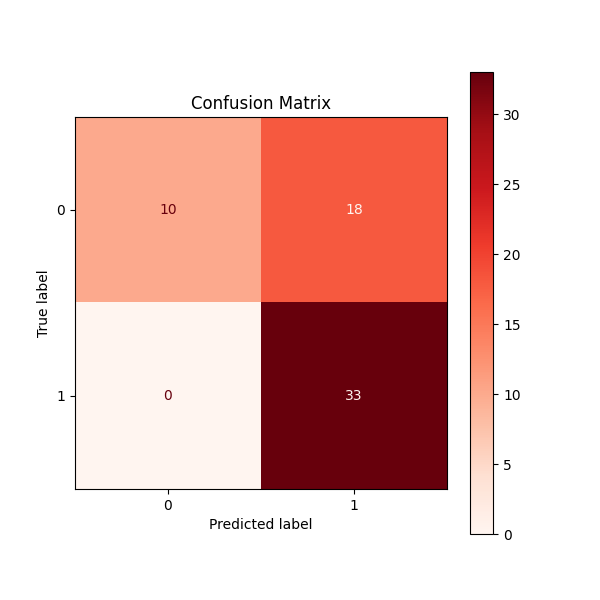
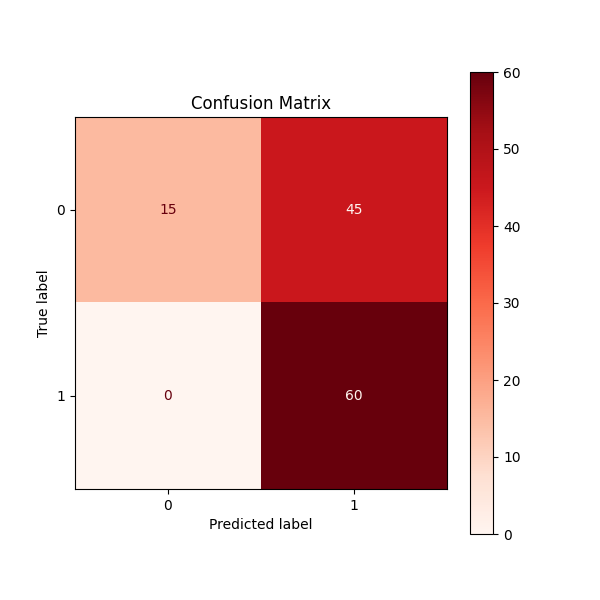
changes to prevent data leakage and fine tuning according to validation set

diff --git a/heart_disease_model.py b/heart_disease_model.py
@@ -5,29 +5,29 @@ from sklearn.linear_model import LogisticRegression
 from sklearn.metrics import accuracy_score , ConfusionMatrixDisplay,confusion_matrix, recall_score, precision_recall_curve,precision_score,classification_report
 import matplotlib.pyplot as plt
 #importing and processing dataset
+import random
+random.seed(42)
+np.random.seed(42)
+
 heart_data = pd.read_csv('heart.csv')
+df = pd.read_csv('heart_cleveland_upload.csv')
+df.rename(columns={"condition": "target"}, inplace=True)
+heart_data = pd.concat([heart_data, df], ignore_index=True)
 heart_data = heart_data.drop_duplicates()
 x=heart_data.drop(columns='target',axis=1)
 y=heart_data['target']
 #spliting into train and test data
-x_train , x_test , y_train , y_test = train_test_split(x,y,test_size=0.2,stratify=y,random_state=2)
+x_train_full , x_test , y_train_full , y_test = train_test_split(x,y,test_size=0.2,stratify=y,random_state=42)
+x_train , x_val , y_train, y_val =train_test_split(x_train_full,y_train_full, test_size=0.25,stratify=y_train_full,random_state=42)
 #model trainning logistic regression
-model = LogisticRegression()
+model = LogisticRegression(solver='liblinear', random_state=42)
 model.fit(x_train,y_train)
 #Predict Probabilities
-y_proba = model.predict_proba(x_test)[:, 1]
+y_proba = model.predict_proba(x_val)[:, 1]
 #Precision Recall Curve
-precision, recall, thresholds = precision_recall_curve(y_test, y_proba)
+precision, recall, thresholds = precision_recall_curve(y_val, y_proba)
 #Choose Best Threshold with 100% Recall and Max Precision
-best_threshold = None
-best_precision = 0
-
-for p, r, t in zip(precision, recall, thresholds):
-    if r >= 1 and p > best_precision:
-        best_precision = p
-        best_threshold = t
-
-print(f"Best threshold with recall=1.0: {best_threshold:.4f}, precision: {best_precision:.4f}")
+best_threshold = 0.1517 # Chosen to achieve ~98.3% recall with ~57% precision (from val set)
 #Predict using custom Threshold
 def model_predict_with_threshold(x,model = model , threshold = best_threshold ) :
   y_proba = model.predict_proba(x)[:,1]
@@ -36,12 +36,12 @@ x_test_prediction=model_predict_with_threshold(x_test)
 #Model Evaluation
 cm = confusion_matrix(y_test, x_test_prediction)
 print("Confusion Matrix:\n", cm)
-print("\nClassification Report:\n", classification_report(y_test, x_test_prediction))
+print("\nClassification Report:\n", classification_report(y_test, x_test_prediction,zero_division=0))
 # Confusion Matrix Plot
 disp = ConfusionMatrixDisplay(confusion_matrix=cm)
-fig, ax = plt.subplots(figsize=(6, 6))  # Create custom Axes
-disp.plot(cmap="Reds", ax=ax)          # Plot on custom Axes
-ax.set_title("Confusion Matrix")       # ✅ Now you can set title here
+fig, ax = plt.subplots(figsize=(6, 6)) 
+disp.plot(cmap="Reds", ax=ax)          
+ax.set_title("Confusion Matrix")       
 plt.savefig("visuals/confusion_matrix.png")
 plt.close()
 # Precision-Recall vs Threshold Plot

diff --git a/readme.md b/readme.md
@@ -11,7 +11,7 @@ The goal is to **maximize recall** to ensure that **no potential heart disease p
 ## ✅ Key Results
 
 - **Recall (Sensitivity)**: **100%** – all actual patients were detected
-- **Precision**: 67% – some healthy individuals were over-flagged
+- **Precision**: 57% – some healthy individuals were over-flagged
 - **Accuracy**: 70% – due to false positives
 - **F1-score**: 0.80 – balanced performance
 
@@ -61,7 +61,7 @@ This model is ideal for **initial screening** – like a metal detector – bett
 
 ## 🧠 Dataset
 
-Based on publicly available [Heart Disease dataset](https://www.kaggle.com/datasets/johnsmith88/heart-disease-dataset) from Kaggle.
+Based on publicly available [Heart Disease dataset](https://www.kaggle.com/datasets/johnsmith88/heart-disease-dataset) [Heart Disease Cleveland dataset](https://www.kaggle.com/datasets/cherngs/heart-disease-cleveland-uci)from Kaggle.
 
 ---
 
